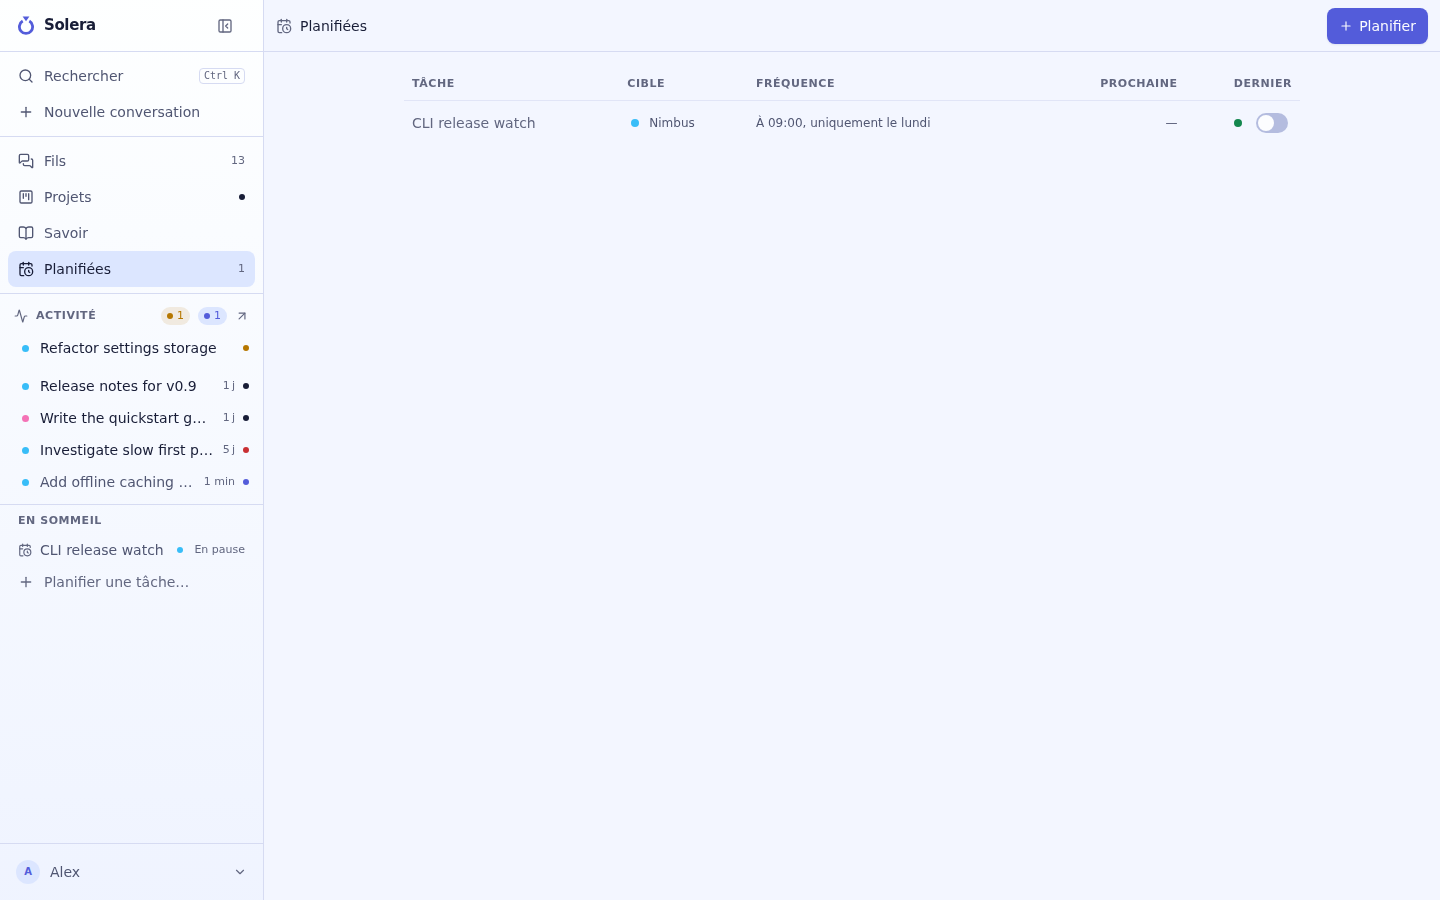
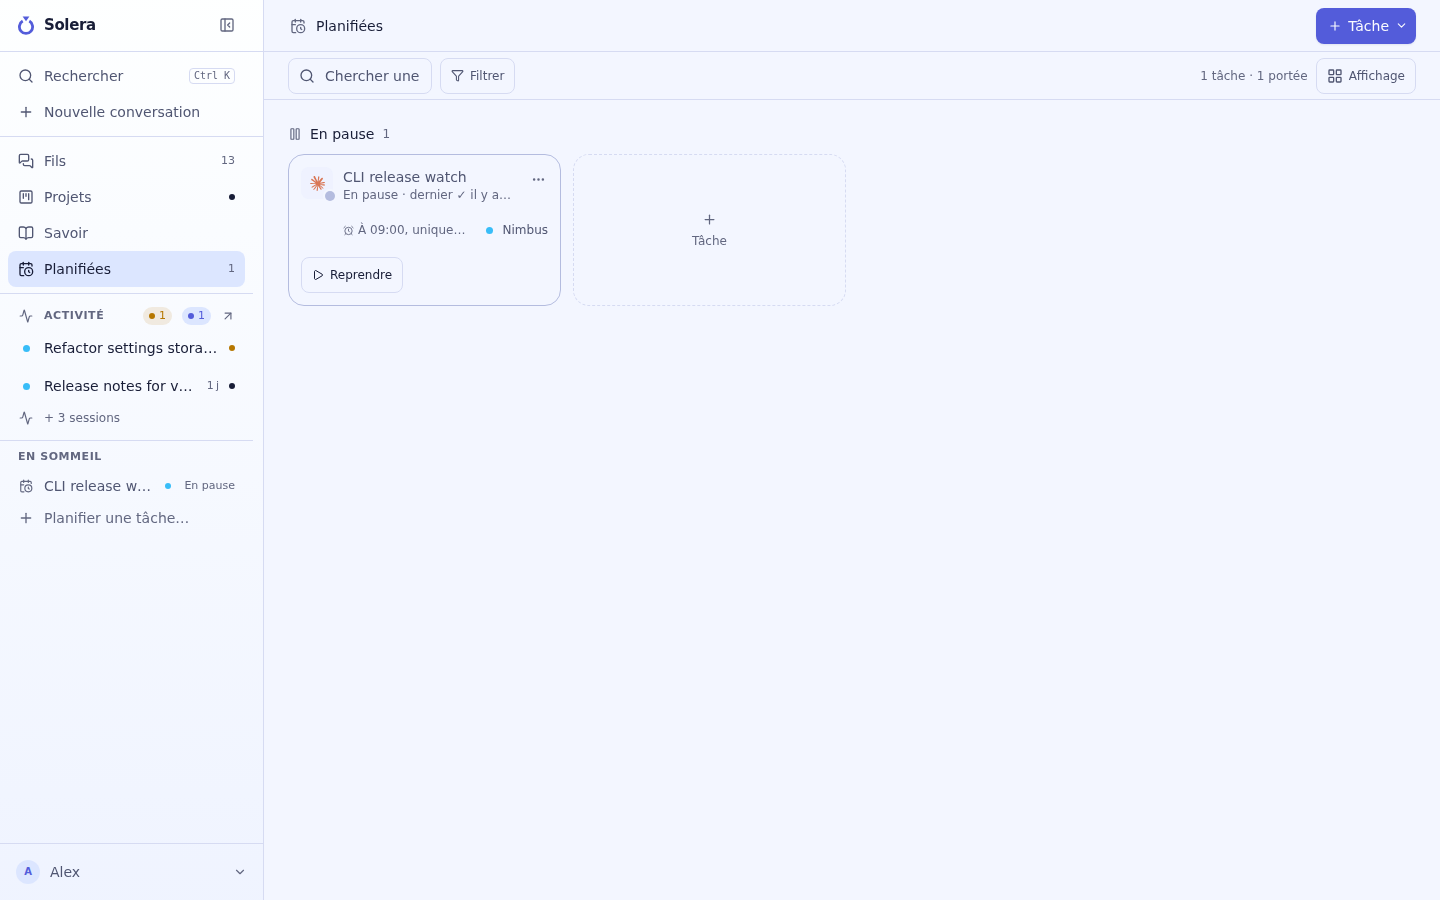
Planifiées v2 : Savoir fermé sans vault, portée relue en modification, parcours et captures (#219)

diff --git a/apps/web/src/lib/planned.ts b/apps/web/src/lib/planned.ts
@@ -304,28 +304,42 @@ export function targetFromValue(value: string): ScheduleTarget | null {
   return value === 'vault' || value === 'instance' || value === 'none' ? { scope: value } : null
 }
 
+/** Pourquoi une portée est fermée : une commande vit dans un projet ; sans vault, pas de Savoir. */
+export type ClosedTarget = 'commandOnly' | 'noVault'
+
 export interface TargetOption {
   value: string
   target: ScheduleTarget
-  /** Une commande tourne dans un projet : le reste lui est fermé. */
-  disabled: boolean
+  closed: ClosedTarget | null
 }
 
 const byName = (a: ScopeProject, b: ScopeProject) => a.name.localeCompare(b.name)
 
-/** Les portées que propose l'éditeur : les projets par nom, Savoir, Instance (administrateurs), Sans projet. */
-export function editorTargets(projects: readonly ScopeProject[], { admin, what }: { admin: boolean; what: What }): TargetOption[] {
+/**
+ * Les portées que propose l'éditeur : les projets par nom, Savoir, Instance
+ * (administrateurs), Sans projet. `vault` : un dossier de vault est configuré.
+ */
+export function editorTargets(
+  projects: readonly ScopeProject[],
+  { admin, what, vault }: { admin: boolean; what: What; vault: boolean },
+): TargetOption[] {
   const outside: ScheduleTarget[] = [{ scope: 'vault' }, ...(admin ? [{ scope: 'instance' } as const] : []), { scope: 'none' }]
+  const closed = (target: ScheduleTarget): ClosedTarget | null => {
+    if (target.scope === 'project') return null
+    if (what === 'command') return 'commandOnly'
+    return target.scope === 'vault' && !vault ? 'noVault' : null
+  }
   return [
     ...[...projects].sort(byName).map((project) => ({ scope: 'project', projectId: project.id }) as const),
     ...outside,
-  ].map((target) => ({ value: targetValue(target), target, disabled: what === 'command' && target.scope !== 'project' }))
+  ].map((target) => ({ value: targetValue(target), target, closed: closed(target) }))
 }
 
-/** La portée proposée d'office : le premier projet, sinon le Savoir. */
-export function defaultTarget(projects: readonly ScopeProject[]): ScheduleTarget {
+/** La portée proposée d'office : le premier projet, sinon le Savoir s'il existe, sinon sans projet. */
+export function defaultTarget(projects: readonly ScopeProject[], { vault }: { vault: boolean }): ScheduleTarget {
   const [first] = [...projects].sort(byName)
-  return first ? { scope: 'project', projectId: first.id } : { scope: 'vault' }
+  if (first) return { scope: 'project', projectId: first.id }
+  return vault ? { scope: 'vault' } : { scope: 'none' }
 }
 
 /**
@@ -335,7 +349,7 @@ export function defaultTarget(projects: readonly ScopeProject[]): ScheduleTarget
  */
 export function fitTarget(target: ScheduleTarget, what: What, projects: readonly ScopeProject[]): ScheduleTarget {
   if (what !== 'command' || target.scope === 'project' || projects.length === 0) return target
-  return defaultTarget(projects)
+  return defaultTarget(projects, { vault: false })
 }
 
 /** Le projet d'une portée ; null hors projet. */

diff --git a/apps/web/src/routes/SchedulesPage.tsx b/apps/web/src/routes/SchedulesPage.tsx
@@ -45,6 +45,7 @@ import {
 import { useProjects } from '../lib/projects'
 import type { ScheduleTarget } from '../lib/schedules'
 import { useStoredPref, useView } from '../lib/use-view'
+import { useVaultState } from '../lib/vault'
 
 const VIEWS = ['lanceur', 'agenda', 'liste'] as const
 type View = (typeof VIEWS)[number]
@@ -92,6 +93,7 @@ export function SchedulesPage() {
   const t = useTranslate()
   const data = useAutomations({ all: true })
   const { data: projects } = useProjects()
+  const { data: vault } = useVaultState()
   const [view, setView] = useView<View>('planifiees', null, VIEWS)
   const [grouping, setGrouping] = useStoredPref<Grouping>('solera.planned.group', readGrouping)
   const [agendaScope, setAgendaScope] = useState<AgendaScope>('week')
@@ -109,7 +111,7 @@ export function SchedulesPage() {
   const active = plannedFilterCount(filters)
 
   /** Une création d'ici est planifiée d'office (PLF-1), dans la portée donnée ou la première. */
-  const create = (seed: EditorSeed, target: ScheduleTarget = defaultTarget(open)) =>
+  const create = (seed: EditorSeed, target: ScheduleTarget = defaultTarget(open, { vault: vault?.configured === true })) =>
     setPanel({ mode: 'edit', seed: { ...seed, schedule: true, target }, back: null })
   const onNew = (kind: NewActionEntry['kind']) => {
     if (kind === 'schedule') setPanel({ mode: 'pick' })
@@ -246,13 +248,13 @@ export function SchedulesPage() {
               }
             />
           ) : view === 'agenda' ? (
-            <ActionsAgenda items={shown} scope={agendaScope} onScope={setAgendaScope} onOpen={(item) => gestures.handlers.onOpen(item as PlannedItem)} />
+            <ActionsAgenda items={shown} scope={agendaScope} onScope={setAgendaScope} onOpen={(item) => gestures.handlers.onOpen(item)} />
           ) : shown.length === 0 && !data.isPending ? (
             <p className="rounded-xl border border-dashed border-line px-4 py-8 text-center text-sm text-ink-faint">{t('planned.noMatch')}</p>
           ) : view === 'lanceur' ? (
             <Launcher items={shown} scopes={scopes} grouping={grouping} now={now} handlers={gestures.handlers} onAdd={(target) => create({}, target)} />
           ) : (
-            <PlannedHealth items={shown} group={grouping} costOf={data.costOf} onOpen={(item) => gestures.handlers.onOpen(item)} />
+            <PlannedHealth items={shown} group={grouping} costOf={data.costOf} onOpen={gestures.handlers.onOpen} />
           )}
         </div>
       </div>

diff --git a/apps/server/test/planned.test.ts b/apps/server/test/planned.test.ts
@@ -350,17 +350,25 @@ test('targetOf, targetValue, targetFromValue : aller et retour', () => {
 })
 
 test('editorTargets : les projets, puis Savoir, Instance (administrateurs), Sans projet', () => {
-  const values = (admin: boolean) => editorTargets(PROJECTS, { admin, what: 'agent' }).map((option) => option.value)
+  const values = (admin: boolean) => editorTargets(PROJECTS, { admin, what: 'agent', vault: true }).map((option) => option.value)
   assert.deepEqual(values(true), [`project:${ATLAS.id}`, `project:${NIMBUS.id}`, 'vault', 'instance', 'none'])
   assert.deepEqual(values(false), [`project:${ATLAS.id}`, `project:${NIMBUS.id}`, 'vault', 'none'])
-  // Une commande tourne dans un projet : le reste est grisé.
-  const commandTargets = editorTargets(PROJECTS, { admin: true, what: 'command' })
-  assert.deepEqual(commandTargets.filter((option) => option.disabled).map((option) => option.value), ['vault', 'instance', 'none'])
+  assert.ok(editorTargets(PROJECTS, { admin: true, what: 'agent', vault: true }).every((option) => option.closed === null))
+  // Une commande tourne dans un projet : le reste lui est fermé.
+  const commandTargets = editorTargets(PROJECTS, { admin: true, what: 'command', vault: true })
+  assert.deepEqual(
+    commandTargets.filter((option) => option.closed).map((option) => [option.value, option.closed]),
+    [['vault', 'commandOnly'], ['instance', 'commandOnly'], ['none', 'commandOnly']],
+  )
+  // Sans vault configuré, le Savoir n'a pas de dossier où tourner.
+  const noVault = editorTargets(PROJECTS, { admin: true, what: 'agent', vault: false })
+  assert.equal(noVault.find((option) => option.value === 'vault')!.closed, 'noVault')
 })
 
-test('defaultTarget : le premier projet par nom, sinon le Savoir', () => {
-  assert.deepEqual(defaultTarget(PROJECTS), { scope: 'project', projectId: ATLAS.id })
-  assert.deepEqual(defaultTarget([]), { scope: 'vault' })
+test('defaultTarget : le premier projet par nom, sinon le Savoir, sinon sans projet', () => {
+  assert.deepEqual(defaultTarget(PROJECTS, { vault: true }), { scope: 'project', projectId: ATLAS.id })
+  assert.deepEqual(defaultTarget([], { vault: true }), { scope: 'vault' })
+  assert.deepEqual(defaultTarget([], { vault: false }), { scope: 'none' })
 })
 
 test('fitTarget : une commande ramenée au premier projet, un agent garde sa portée', () => {

diff --git a/apps/web/src/components/automations/ActionEditor.tsx b/apps/web/src/components/automations/ActionEditor.tsx
@@ -65,6 +65,7 @@ import { setPanelExpanded } from '../../lib/panel'
 import { editorTargets, fitTarget, launchWhere, projectOfTarget, targetFromValue, targetValue, type PlannedScope, type ScopeProject } from '../../lib/planned'
 import type { ScheduleTarget } from '../../lib/schedules'
 import { useCurrentUser } from '../../lib/session'
+import { useVaultState } from '../../lib/vault'
 import { useProjectEnvironments, useProjects } from '../../lib/projects'
 import { screenText } from '../../lib/command-output'
 import { useTerminalOutput } from '../../lib/terminal-output'
@@ -629,14 +630,15 @@ function ScopeField({
 }) {
   const t = useTranslate()
   const { data: user } = useCurrentUser()
-  const options = editorTargets(projects, { admin: user?.isAdmin === true, what }).map((option) => {
+  const { data: vault } = useVaultState()
+  const options = editorTargets(projects, { admin: user?.isAdmin === true, what, vault: vault?.configured === true }).map((option) => {
     const scope = scopeOfTarget(option.target, projects)
     return {
       value: option.value,
       label: scope.kind === 'project' ? (scope.project?.name ?? t('planned.scope.unknown')) : t(`planned.scope.${scope.kind}`),
       icon: <ScopeMark scope={scope} />,
-      hint: option.disabled ? t('planned.scopeField.commandOnly') : undefined,
-      disabled: option.disabled,
+      hint: option.closed ? t(`planned.scopeField.${option.closed}`) : undefined,
+      disabled: option.closed !== null,
     }
   })
   return (

diff --git a/apps/web/src/components/planned/PlannedTile.tsx b/apps/web/src/components/planned/PlannedTile.tsx
@@ -1,7 +1,7 @@
 import { AlarmClock, ArrowUpRight, MoreHorizontal, Play } from 'lucide-react'
 import { Link } from 'react-router-dom'
 import { IconButton, Menu, MenuItem, MenuSeparator, cx } from '@solera/ui'
-import { cadenceWords, natureOf } from '../../lib/automations'
+import { cadenceWords, natureOf, type Automation } from '../../lib/automations'
 import { conversationPath } from '../../lib/conversation-route'
 import { locale, useTranslate } from '../../lib/i18n'
 import { launchWhere, plannedGestureOf, plannedState, type PlannedItem } from '../../lib/planned'
@@ -12,7 +12,7 @@ import { ScopePip } from './ScopeMarks'
 
 /** Ce qu'une tuile ou une ligne de la page Planifiées sait faire d'une tâche. */
 export interface PlannedHandlers {
-  onOpen: (item: PlannedItem, review?: boolean) => void
+  onOpen: (item: Automation, review?: boolean) => void
   onEdit: (item: PlannedItem) => void
   onLaunch: (item: PlannedItem) => void
   onPause: (item: PlannedItem, paused: boolean) => void

diff --git a/apps/web/src/lib/action-editor.ts b/apps/web/src/lib/action-editor.ts
@@ -25,6 +25,7 @@ import {
   type What,
 } from './automations'
 import type { MessageKey } from './i18n'
+import { targetOfItem } from './planned'
 import type { ScheduleTarget } from './schedules'
 
 /**
@@ -172,7 +173,9 @@ function stateOfDraft(draft: AutomationDraft): EditorState {
 
 export function editorStateOf(seed: EditorSeed): EditorState {
   if (seed.from) {
-    const state = { ...stateOfDraft(draftOf(seed.from)), checkEdited: false }
+    // Une tâche hors projet se relit dans sa portée, qui ne change pas : l'essai du script y joue.
+    const target = seed.from.projectId === null ? targetOfItem(seed.from) : null
+    const state = { ...stateOfDraft(draftOf(seed.from)), checkEdited: false, target }
     return seed.schedule ? { ...state, scheduled: true } : state
   }
   let state = seed.draft ? stateOfDraft(seed.draft) : BLANK

diff --git a/apps/server/test/action-editor.test.ts b/apps/server/test/action-editor.test.ts
@@ -91,6 +91,12 @@ test('editorStateOf : une nouvelle action est une commande, tâche, à la demand
   assert.equal(state.target, null)
 })
 
+test('editorStateOf : une tâche hors projet se modifie dans sa portée, sans la changer', () => {
+  const state = editorStateOf({ from: fromTask(task({ projectId: null, scope: 'vault' })) })
+  assert.deepEqual(state.target, { scope: 'vault' })
+  assert.equal(editorStateOf({ from: fromTask(task()) }).target, null)
+})
+
 test('editorStateOf : target, la portée choisie d’office hors d’un projet (PLF-10)', () => {
   const state = editorStateOf({ preset: { what: 'agent' }, schedule: true, target: { scope: 'vault' } })
   assert.deepEqual(state.target, { scope: 'vault' })

diff --git a/apps/web/src/lib/i18n/catalog-fr.ts b/apps/web/src/lib/i18n/catalog-fr.ts
@@ -4575,6 +4575,7 @@ export const fr: Catalog = {
   "planned.delete.description": "Elle disparaît, sa planification avec elle. Les sessions de ses passages restent, archivées.",
   "planned.scopeField.label": "Portée",
   "planned.scopeField.commandOnly": "Une commande tourne dans un projet.",
+  "planned.scopeField.noVault": "Aucun vault n’est configuré : règle-le dans Réglages › Savoir.",
   "planned.scopeField.hint": "Un lancement part {where}.",
   "actionEditor.error.scope": "Une commande tourne dans un projet : choisis-en un.",
   "actionDrawer.close": "Fermer",

diff --git a/apps/web/src/lib/i18n/catalog-en.ts b/apps/web/src/lib/i18n/catalog-en.ts
@@ -4581,6 +4581,7 @@ export const en = {
   'planned.delete.description': "It goes away, its schedule with it. The sessions of its runs stay, archived.",
   'planned.scopeField.label': "Scope",
   'planned.scopeField.commandOnly': "A command runs inside a project.",
+  'planned.scopeField.noVault': "No vault is set up: configure one in Settings › Knowledge.",
   'planned.scopeField.hint': "A run starts {where}.",
   'actionEditor.error.scope': "A command runs inside a project: pick one.",
   'actionDrawer.close': "Close",
